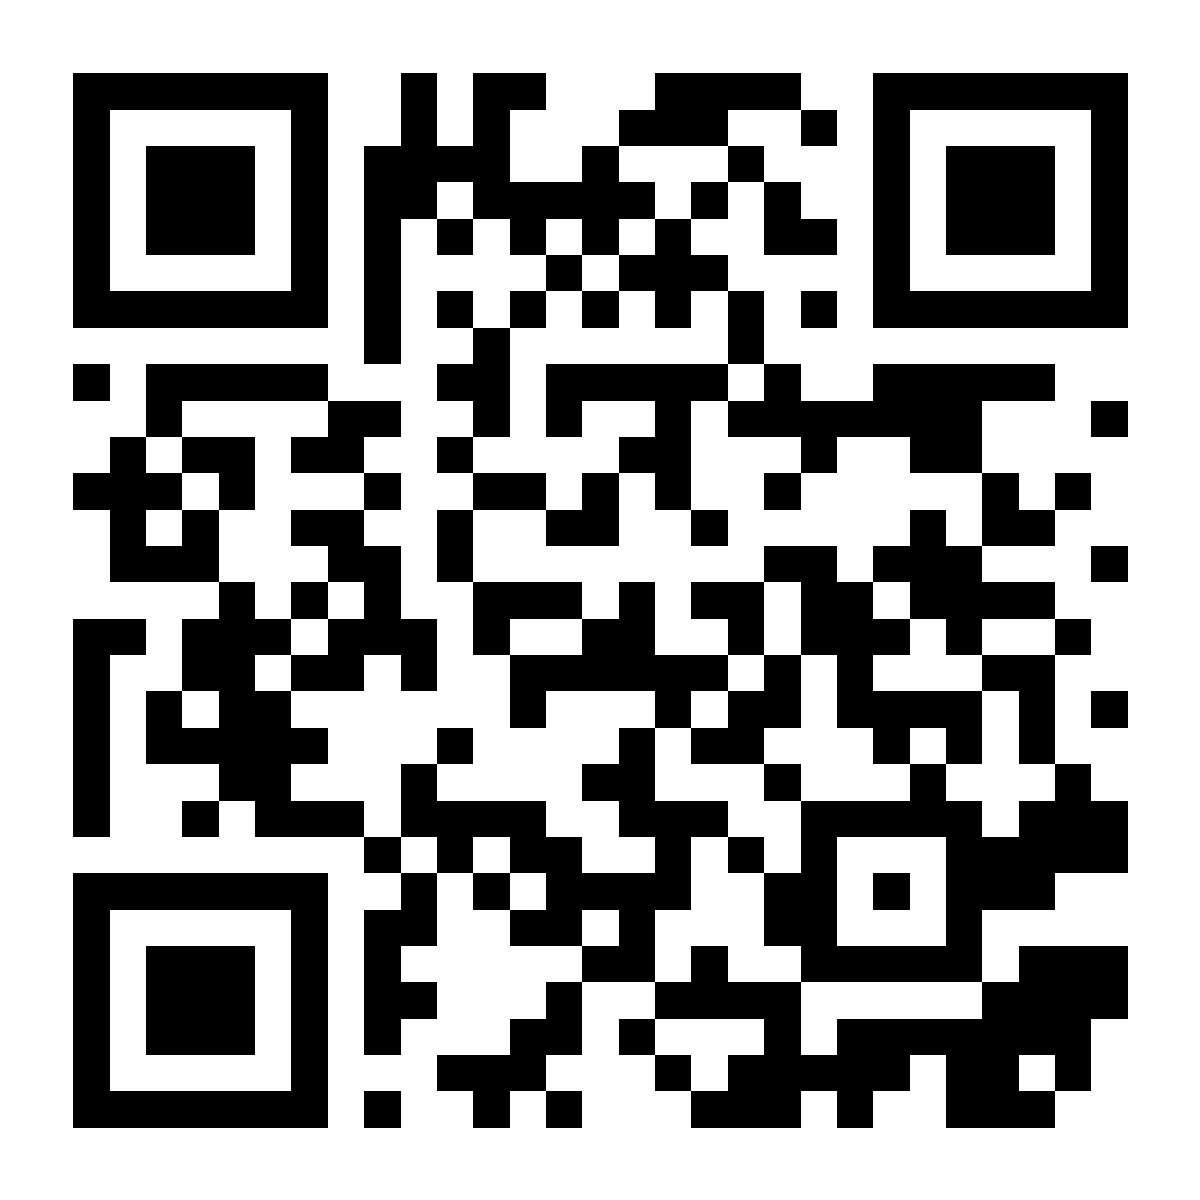
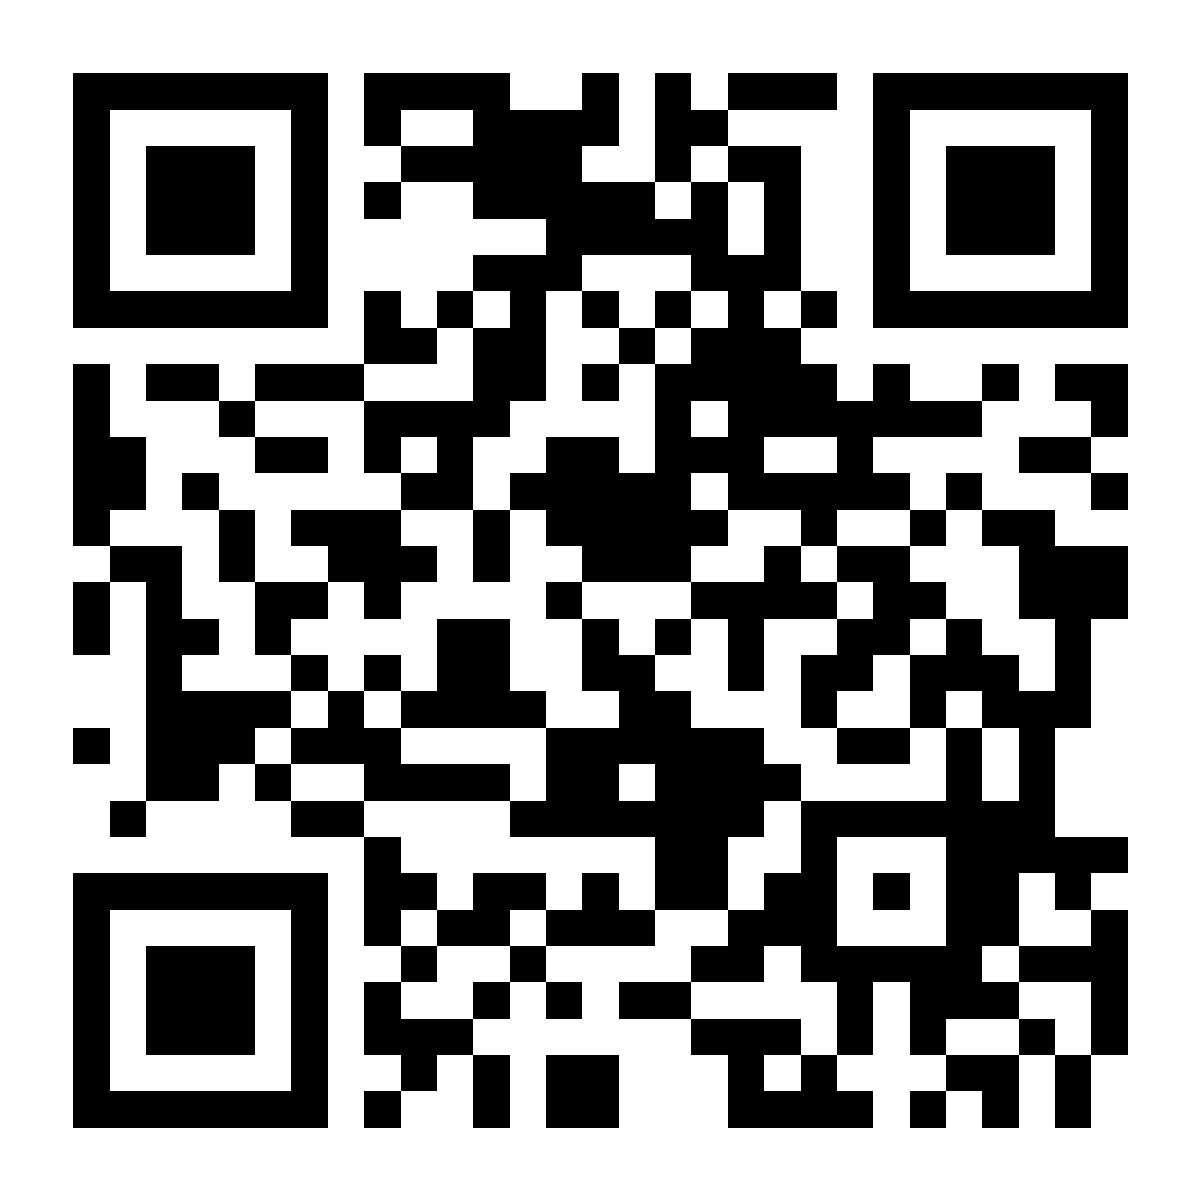
Indirizzo playerhub.auviagency.com: link d'invito, QR e calendario sul telefono (da pubblicare quando il DNS è attivo)

Changed region(s): [[0.0617, 0.0617, 0.9558, 0.9558], [0.6167, 0.0617, 0.7092, 0.1542], [0.555, 0.0617, 0.6167, 0.0925]]

diff --git a/src/lib/install.ts b/src/lib/install.ts
@@ -1,7 +1,7 @@
 // Installazione di Player Hub sul telefono (web app → icona nella schermata Home).
 // Android/Chrome: prompt nativo "Installa" (beforeinstallprompt, catturato all'avvio).
 // iPhone: solo da Safari, con Condividi → Aggiungi alla schermata Home (guidato a passi).
-export const APP_URL = 'https://player-hub-chi.vercel.app'
+export const APP_URL = 'https://playerhub.auviagency.com'
 export const INSTALL_URL = APP_URL + '/scarica'
 
 let deferred: any = null

diff --git a/src/modules/MyAthletes.tsx b/src/modules/MyAthletes.tsx
@@ -15,7 +15,7 @@ import { useLang } from '../lib/i18n'
 // - oppure inserisce il codice ricevuto dall'atleta (crm_request_access)
 // - elenco atleti collegati, inviti e storico.
 
-const APP_URL = 'https://player-hub-chi.vercel.app'
+const APP_URL = 'https://playerhub.auviagency.com'
 
 // area principale per figura professionale
 export const PRO_HOME: Record<string, string> = {

diff --git a/src/modules/InstallPage.tsx b/src/modules/InstallPage.tsx
@@ -1,4 +1,4 @@
-// Pagina pubblica d'invito: player-hub-chi.vercel.app/scarica (anche dal QR code).
+// Pagina pubblica d'invito: playerhub.auviagency.com/scarica (anche dal QR code).
 // Riconosce il dispositivo e mostra i passi giusti per mettere Player Hub nella schermata Home.
 import { useEffect, useState } from 'react'
 import Icon from '../components/Icon'

diff --git a/supabase/functions/calendar-feed/index.ts b/supabase/functions/calendar-feed/index.ts
@@ -13,7 +13,7 @@ const supa = createClient(
   { auth: { persistSession: false, autoRefreshToken: false } },
 )
 
-const APP_URL = 'https://player-hub-chi.vercel.app/#/'
+const APP_URL = 'https://playerhub.auviagency.com/#/'
 const TZ = 'Europe/Athens'
 const TOKEN_RE = /^[0-9a-f]{48}$/
 
